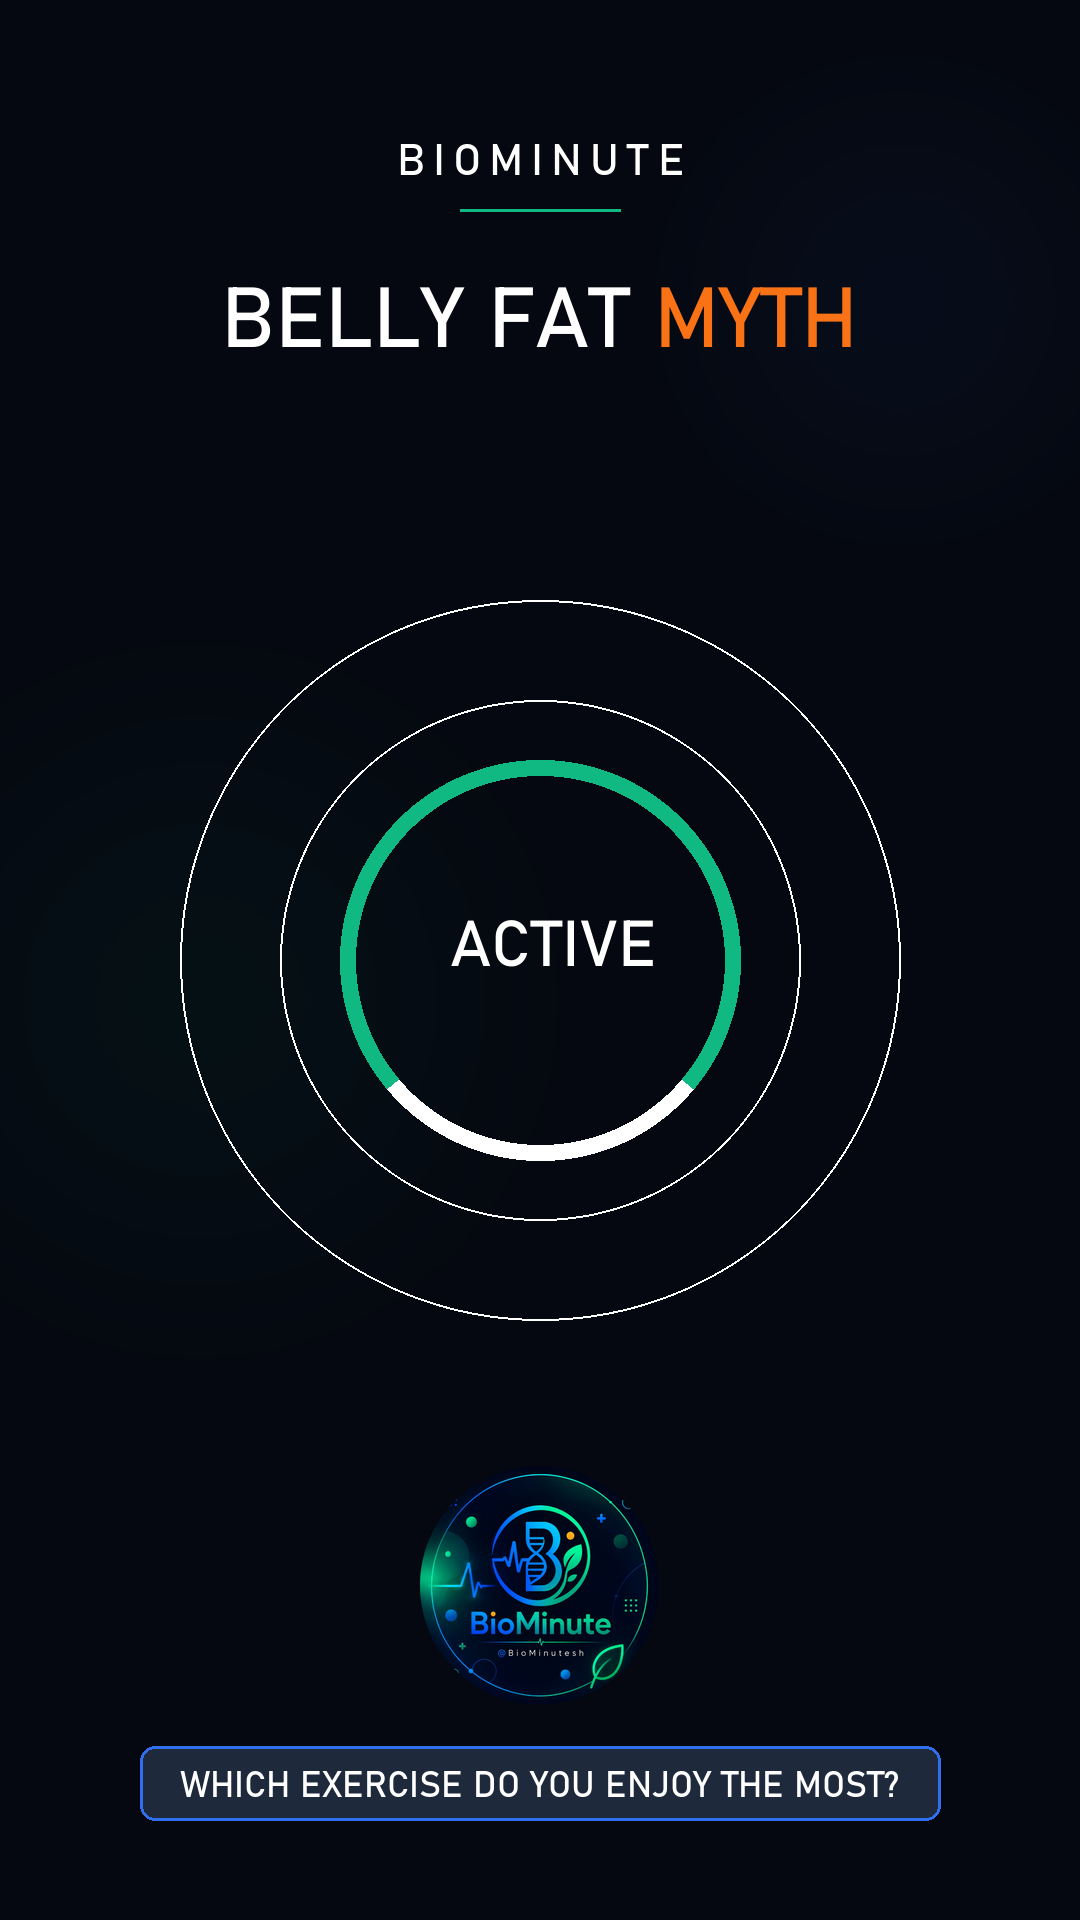
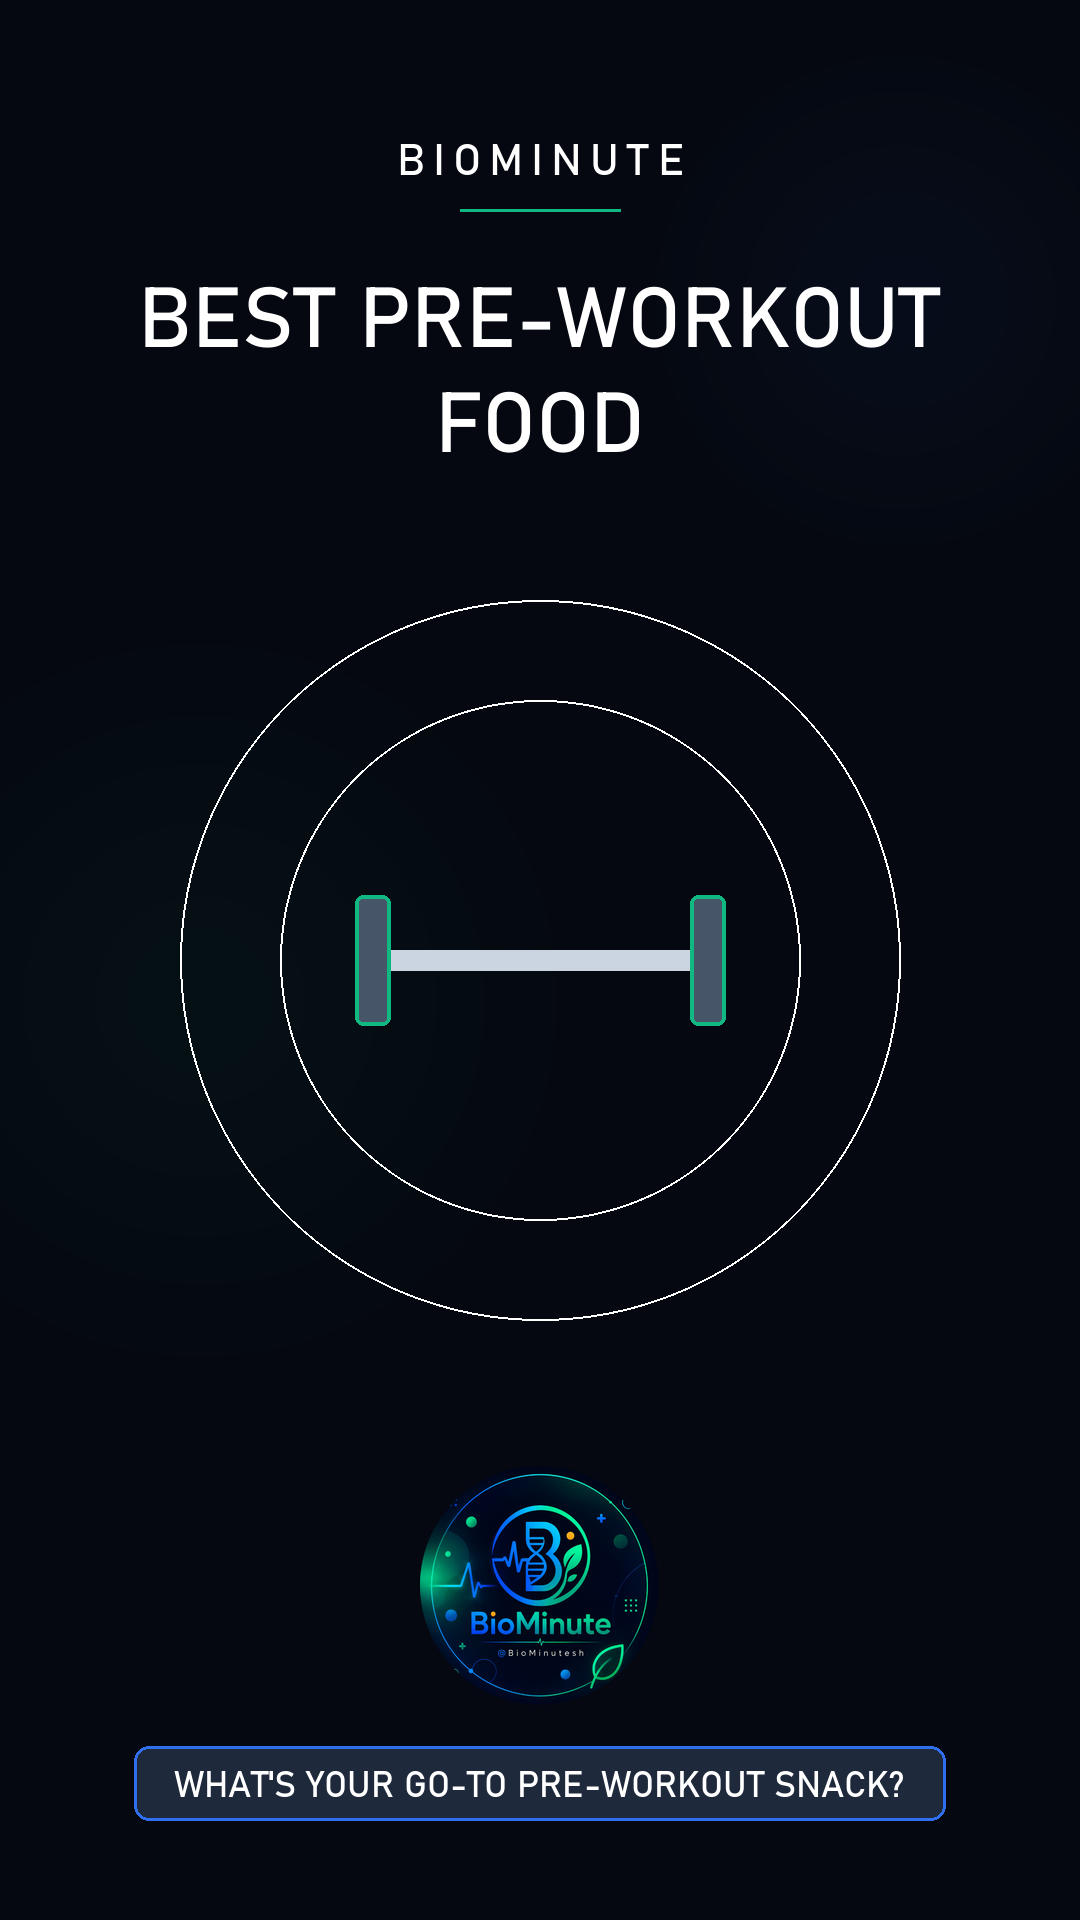
ep17: build, export, and push Episode 17 to GitHub; update dashboard and production log

diff --git a/artifacts/biominute-reels/src/components/video/video_scenes/Scene2.tsx b/artifacts/biominute-reels/src/components/video/video_scenes/Scene2.tsx
@@ -1,6 +1,6 @@
 import { motion } from 'framer-motion';
 import { useEffect, useRef } from 'react';
-import { Dumbbell, Shield, Layers } from 'lucide-react';
+import { Beef, Clock, Plus } from 'lucide-react';
 import { BOTTOM_SAFE_ZONE_PX } from '@/lib/video';
 
 const BASE_URL = import.meta.env.BASE_URL ?? '/';
@@ -37,40 +37,40 @@ export function Scene2() {
           />
 
           <motion.div
-            className="w-[240px] h-[240px] rounded-full bg-[#0F172A] border-8 border-[#10b981] flex items-center justify-center drop-shadow-[0_0_60px_rgba(16,185,129,0.35)]"
+            className="w-[240px] h-[240px] rounded-full bg-[#0F172A] border-8 border-[#2F6FED] flex items-center justify-center drop-shadow-[0_0_60px_rgba(47,111,237,0.35)]"
             initial={{ scale: 0.6, opacity: 0 }}
             animate={{ scale: 1, opacity: 1 }}
             transition={{ delay: 0.2, ...SPRING_SMOOTH }}
           >
-            <Dumbbell size={88} color="#10b981" strokeWidth={1.5} />
+            <Beef size={88} color="#2F6FED" strokeWidth={1.5} />
           </motion.div>
 
           <motion.div
-            className="absolute top-0 right-0 w-20 h-20 rounded-full bg-[#2F6FED] flex items-center justify-center"
+            className="absolute top-0 right-0 w-20 h-20 rounded-full bg-[#f97316] flex items-center justify-center"
             initial={{ scale: 0, opacity: 0 }}
             animate={{ scale: 1, opacity: 1 }}
             transition={{ delay: 0.8, ...SPRING_SNAPPY }}
           >
-            <Shield size={40} color="#0F172A" strokeWidth={2.5} />
+            <Clock size={40} color="#0F172A" strokeWidth={2.5} />
           </motion.div>
 
           <motion.div
-            className="absolute bottom-0 left-0 w-20 h-20 rounded-full bg-[#f97316] flex items-center justify-center"
+            className="absolute bottom-0 left-0 w-20 h-20 rounded-full bg-[#10b981] flex items-center justify-center"
             initial={{ scale: 0, opacity: 0 }}
             animate={{ scale: 1, opacity: 1 }}
             transition={{ delay: 1.1, ...SPRING_SNAPPY }}
           >
-            <Layers size={40} color="#0F172A" strokeWidth={2.5} />
+            <Plus size={40} color="#0F172A" strokeWidth={2.5} />
           </motion.div>
         </div>
 
         <motion.div
-          className="mt-8 bg-[#10b981]/10 border border-[#10b981]/30 px-6 py-4 rounded-2xl text-center max-w-[80%]"
+          className="mt-8 bg-[#2F6FED]/10 border border-[#2F6FED]/30 px-6 py-4 rounded-2xl text-center max-w-[80%]"
           initial={{ opacity: 0, y: 20 }}
           animate={{ opacity: 1, y: 0 }}
           transition={{ delay: 1.6, ...SPRING_SMOOTH }}
         >
-          <span className="text-[#f8fafc] font-display font-bold text-[22px] uppercase tracking-wider">Strengthens, But Doesn't Selectively Burn</span>
+          <span className="text-[#f8fafc] font-display font-bold text-[22px] uppercase tracking-wider">Add Protein If It's Been a While</span>
         </motion.div>
       </div>
 
@@ -84,14 +84,14 @@ export function Scene2() {
           animate={{ opacity: 1, y: 0 }}
           transition={{ duration: 0.8, delay: 1.0 }}
         >
-          Ab Exercises Build Muscle
+          Protein Helps When
           <motion.span
-            className="text-[#10b981] block mt-2 drop-shadow-md"
+            className="text-[#2F6FED] block mt-2 drop-shadow-md"
             initial={{ opacity: 0, scale: 0.95 }}
             animate={{ opacity: 1, scale: 1 }}
             transition={{ delay: 1.8, ...SPRING_SNAPPY }}
           >
-            Underneath, Not Burn Local Fat
+            Your Last Meal Was Long Ago
           </motion.span>
         </motion.h2>
       </div>

diff --git a/artifacts/biominute-reels/src/components/video/video_scenes/Scene3.tsx b/artifacts/biominute-reels/src/components/video/video_scenes/Scene3.tsx
@@ -1,6 +1,6 @@
 import { motion } from 'framer-motion';
 import { useEffect, useRef } from 'react';
-import { Utensils, Activity, Dumbbell, ArrowDown } from 'lucide-react';
+import { Banana, Milk, Wheat, Utensils } from 'lucide-react';
 import { BOTTOM_SAFE_ZONE_PX } from '@/lib/video';
 
 const BASE_URL = import.meta.env.BASE_URL ?? '/';
@@ -18,10 +18,10 @@ export function Scene3() {
     }
   }, []);
 
-  const factors = [
-    { Icon: Utensils, label: 'Nutrition', color: '#10b981', delay: 0.2, angle: 0 },
-    { Icon: Activity, label: 'Activity', color: '#2F6FED', delay: 0.5, angle: 120 },
-    { Icon: Dumbbell, label: 'Strength', color: '#f97316', delay: 0.8, angle: 240 },
+  const foods = [
+    { Icon: Banana, label: 'Banana', color: '#facc15', delay: 0.2, angle: 0 },
+    { Icon: Milk, label: 'Yogurt', color: '#2F6FED', delay: 0.5, angle: 120 },
+    { Icon: Wheat, label: 'Oatmeal', color: '#10b981', delay: 0.8, angle: 240 },
   ];
 
   return (
@@ -42,7 +42,7 @@ export function Scene3() {
             transition={{ duration: 4, repeat: Infinity, ease: "easeInOut" }}
           />
 
-          {factors.map(({ Icon, label, color, delay, angle }) => {
+          {foods.map(({ Icon, label, color, delay, angle }) => {
             const rad = (angle * Math.PI) / 180;
             const x = Math.cos(rad) * 130;
             const y = Math.sin(rad) * 130;
@@ -72,17 +72,17 @@ export function Scene3() {
             animate={{ scale: 1 }}
             transition={{ delay: 1.2, ...SPRING_SNAPPY }}
           >
-            <ArrowDown size={48} color="#0F172A" strokeWidth={2.5} />
+            <Utensils size={48} color="#0F172A" strokeWidth={2} />
           </motion.div>
         </div>
 
         <motion.div
-          className="mt-8 bg-[#2F6FED]/10 border border-[#2F6FED]/30 px-6 py-4 rounded-2xl text-center max-w-[80%]"
+          className="mt-8 bg-[#10b981]/10 border border-[#10b981]/30 px-6 py-4 rounded-2xl text-center max-w-[80%]"
           initial={{ opacity: 0, y: 20 }}
           animate={{ opacity: 1, y: 0 }}
           transition={{ delay: 1.6, ...SPRING_SMOOTH }}
         >
-          <span className="text-[#f8fafc] font-display font-bold text-[22px] uppercase tracking-wider">Reveals Muscles Over Time</span>
+          <span className="text-[#f8fafc] font-display font-bold text-[22px] uppercase tracking-wider">Timing + Intensity + What Feels Good</span>
         </motion.div>
       </div>
 
@@ -96,14 +96,14 @@ export function Scene3() {
           animate={{ opacity: 1, y: 0 }}
           transition={{ duration: 0.8, delay: 1.0 }}
         >
-          Reduce Overall Body Fat
+          Simple Options, But the Best
           <motion.span
-            className="text-[#2F6FED] block mt-2 drop-shadow-md"
+            className="text-[#10b981] block mt-2 drop-shadow-md"
             initial={{ opacity: 0, scale: 0.95 }}
             animate={{ opacity: 1, scale: 1 }}
             transition={{ delay: 1.8, ...SPRING_SNAPPY }}
           >
-            To See What's Underneath
+            Choice Depends on You
           </motion.span>
         </motion.h2>
       </div>

diff --git a/artifacts/biominute-reels/src/components/video/video_scenes/Scene0.tsx b/artifacts/biominute-reels/src/components/video/video_scenes/Scene0.tsx
@@ -1,6 +1,6 @@
 import { motion } from 'framer-motion';
 import { useEffect, useRef } from 'react';
-import { Dumbbell } from 'lucide-react';
+import { Apple } from 'lucide-react';
 import { BOTTOM_SAFE_ZONE_PX } from '@/lib/video';
 
 const BASE_URL = import.meta.env.BASE_URL ?? '/';
@@ -29,26 +29,26 @@ export function Scene0() {
       <audio ref={audioRef} src={`${BASE_URL}audio/sfx-whoosh.mp3`} preload="auto" />
 
       <motion.div
-        className="absolute top-[20%] w-[550px] h-[550px] bg-gradient-to-tr from-[#f97316]/20 to-[#2F6FED]/10 rounded-full blur-[120px]"
+        className="absolute top-[20%] w-[550px] h-[550px] bg-gradient-to-tr from-[#10b981]/20 to-[#2F6FED]/10 rounded-full blur-[120px]"
         animate={{ scale: [1, 1.08, 1], opacity: [0.4, 0.6, 0.4] }}
         transition={{ duration: 6, repeat: Infinity, ease: "easeInOut" }}
       />
 
       <div className="absolute top-[260px] flex items-center justify-center z-10 w-full">
         <motion.div
-          className="relative w-[300px] h-[300px] rounded-full bg-[#0F172A] border-8 border-[#f97316] flex items-center justify-center drop-shadow-[0_0_60px_rgba(249,115,22,0.35)]"
+          className="relative w-[300px] h-[300px] rounded-full bg-[#0F172A] border-8 border-[#10b981] flex items-center justify-center drop-shadow-[0_0_60px_rgba(16,185,129,0.35)]"
           initial={{ scale: 0.6, opacity: 0, y: 30 }}
           animate={{ scale: 1, opacity: 1, y: 0 }}
           transition={{ delay: 0.2, ...SPRING_SMOOTH }}
         >
-          <Dumbbell size={140} color="#f97316" strokeWidth={1.5} />
+          <Apple size={140} color="#10b981" strokeWidth={1.5} />
           <motion.div
-            className="absolute -bottom-4 -right-4 w-24 h-24 rounded-full bg-[#10b981] flex items-center justify-center"
+            className="absolute -bottom-4 -right-4 w-24 h-24 rounded-full bg-[#f97316] flex items-center justify-center"
             initial={{ scale: 0, opacity: 0 }}
             animate={{ scale: 1, opacity: 1 }}
             transition={{ delay: 0.8, ...SPRING_SNAPPY }}
           >
-            <span className="text-[#0F172A] font-display font-black text-[18px]">ABS</span>
+            <span className="text-[#0F172A] font-display font-black text-[18px]">FUEL</span>
           </motion.div>
         </motion.div>
       </div>
@@ -63,14 +63,14 @@ export function Scene0() {
           animate={{ opacity: 1, y: 0 }}
           transition={{ duration: 0.8, delay: 0.6 }}
         >
-          Can You Lose Belly Fat
+          What's the Best Food
           <motion.span
-            className="text-[#f97316] block mt-3 drop-shadow-md"
+            className="text-[#10b981] block mt-3 drop-shadow-md"
             initial={{ scale: 0.95, opacity: 0 }}
             animate={{ scale: 1, opacity: 1 }}
             transition={{ delay: 1.2, ...SPRING_SNAPPY }}
           >
-            With Ab Exercises?
+            Before a Workout?
           </motion.span>
         </motion.h1>
       </div>

diff --git a/artifacts/biominute-reels/src/components/video/video_scenes/Scene1.tsx b/artifacts/biominute-reels/src/components/video/video_scenes/Scene1.tsx
@@ -1,6 +1,6 @@
 import { motion } from 'framer-motion';
 import { useEffect, useRef } from 'react';
-import { Ban, Target } from 'lucide-react';
+import { Zap, Wheat } from 'lucide-react';
 import { BOTTOM_SAFE_ZONE_PX } from '@/lib/video';
 
 const BASE_URL = import.meta.env.BASE_URL ?? '/';
@@ -31,27 +31,27 @@ export function Scene1() {
       <div className="absolute top-[260px] flex items-center justify-center z-10 w-full">
         <div className="relative w-[340px] h-[340px] flex items-center justify-center">
           <motion.div
-            className="absolute inset-0 rounded-full bg-gradient-to-tr from-[#f97316]/15 to-[#2F6FED]/10 blur-[40px]"
+            className="absolute inset-0 rounded-full bg-gradient-to-tr from-[#10b981]/15 to-[#2F6FED]/10 blur-[40px]"
             animate={{ scale: [1, 1.05, 1], opacity: [0.5, 0.8, 0.5] }}
             transition={{ duration: 4, repeat: Infinity, ease: "easeInOut" }}
           />
 
           <motion.div
-            className="w-[240px] h-[240px] rounded-full bg-[#0F172A] border-8 border-[#f97316] flex items-center justify-center drop-shadow-[0_0_60px_rgba(249,115,22,0.35)]"
+            className="w-[240px] h-[240px] rounded-full bg-[#0F172A] border-8 border-[#10b981] flex items-center justify-center drop-shadow-[0_0_60px_rgba(16,185,129,0.35)]"
             initial={{ scale: 0.6, opacity: 0 }}
             animate={{ scale: 1, opacity: 1 }}
             transition={{ delay: 0.2, ...SPRING_SMOOTH }}
           >
-            <Target size={88} color="#f97316" strokeWidth={1.5} />
+            <Wheat size={88} color="#10b981" strokeWidth={1.5} />
           </motion.div>
 
           <motion.div
-            className="absolute top-0 right-0 w-20 h-20 rounded-full bg-[#10b981] flex items-center justify-center"
+            className="absolute top-0 right-0 w-20 h-20 rounded-full bg-[#2F6FED] flex items-center justify-center"
             initial={{ scale: 0, rotate: -45 }}
             animate={{ scale: 1, rotate: 0 }}
             transition={{ delay: 0.8, ...SPRING_SNAPPY }}
           >
-            <Ban size={40} color="#0F172A" strokeWidth={3} />
+            <Zap size={40} color="#0F172A" strokeWidth={2.5} />
           </motion.div>
         </div>
       </div>
@@ -66,14 +66,14 @@ export function Scene1() {
           animate={{ opacity: 1, y: 0 }}
           transition={{ duration: 0.8, delay: 1.0 }}
         >
-          Spot Reduction Is
+          Carbs Give You Energy
           <motion.span
-            className="text-[#f97316] block mt-2 drop-shadow-md"
+            className="text-[#10b981] block mt-2 drop-shadow-md"
             initial={{ opacity: 0, scale: 0.95 }}
             animate={{ opacity: 1, scale: 1 }}
             transition={{ delay: 1.8, ...SPRING_SNAPPY }}
           >
-            One of the Biggest Fitness Myths
+            For Your Workout
           </motion.span>
         </motion.h2>
       </div>

diff --git a/exports/dashboard.html b/exports/dashboard.html
@@ -292,8 +292,8 @@
   <div class="sub">Self-contained repo preview — scripts, status, and finished videos travel together.</div>
   <div class="stats">
     <div class="stat"><b>36</b>Total episodes</div>
-    <div class="stat" style="background:var(--emerald);color:#fff"><b>16</b>Complete</div>
-    <div class="stat" style="background:var(--orange);color:#fff"><b>20</b>Uncomplete</div>
+    <div class="stat" style="background:var(--emerald);color:#fff"><b>17</b>Complete</div>
+    <div class="stat" style="background:var(--orange);color:#fff"><b>19</b>Uncomplete</div>
   </div>
 </header>
 
@@ -641,18 +641,22 @@
     </div>
   </div>
 
-  <div class="card" data-status="Uncomplete" data-title="What's the Best Food to Eat Before a Workout?" data-slug="Episode-17-whats-the-best-food-to">
+  <div class="card" data-status="Complete" data-title="What's the Best Food to Eat Before a Workout?" data-slug="Episode-17-whats-the-best-food-to" data-path="exports/Episode-17-whats-the-best-food-to/episode.mp4">
     <div class="card-num">EP 17</div>
-    <div class="thumb-wrap"><div class="thumb placeholder">Not produced yet</div></div>
+    <div class="thumb-wrap">
+      <video class="thumb" poster="Episode-17-whats-the-best-food-to/thumbnail.png" controls preload="none">
+        <source src="Episode-17-whats-the-best-food-to/episode.mp4" type="video/mp4">
+      </video>
+    </div>
     <div class="card-body">
       <div class="card-title">What's the Best Food to Eat Before a Workout?</div>
       <div class="card-meta">
-        <span class="badge queued">Uncomplete</span>
-        <span class="date">Mon, Aug 17, 2026</span>
+        <span class="badge complete">Complete</span>
+        <span class="date">2026-07-14</span>
       </div>
       <div class="copy-row">
         <button class="copy-btn" onclick="copyText(this.dataset.txt, this)" data-txt="What's the Best Food to Eat Before a Workout?">Title</button>
-        <button class="copy-btn" onclick="copyText(this.dataset.txt, this)" data-txt="Episode-17-whats-the-best-food-to">Slug</button>
+        <button class="copy-btn" onclick="copyText(this.dataset.txt, this)" data-txt="exports/Episode-17-whats-the-best-food-to/episode.mp4">Path</button>
         <button class="copy-btn" onclick="copyText(this.dataset.txt, this)" data-txt="EP17 — What's the Best Food to Eat Before a Workout?">Label</button>
       </div>
     </div>

diff --git a/artifacts/biominute-reels/src/components/video/video_scenes/Scene4.tsx b/artifacts/biominute-reels/src/components/video/video_scenes/Scene4.tsx
@@ -1,6 +1,6 @@
 import { motion } from 'framer-motion';
 import { useEffect, useRef } from 'react';
-import { BookOpen, MessageCircle, Dumbbell } from 'lucide-react';
+import { BookOpen, MessageCircle, Apple } from 'lucide-react';
 import { BOTTOM_SAFE_ZONE_PX } from '@/lib/video';
 
 const BASE_URL = import.meta.env.BASE_URL ?? '/';
@@ -42,8 +42,8 @@ export function Scene4() {
             animate={{ scale: 1, rotate: 0 }}
             transition={{ delay: 0.6, ...SPRING_SNAPPY }}
           >
-            <div className="w-24 h-24 rounded-full bg-[#f97316] flex items-center justify-center">
-              <Dumbbell size={48} color="#0F172A" strokeWidth={2} />
+            <div className="w-24 h-24 rounded-full bg-[#10b981] flex items-center justify-center">
+              <Apple size={48} color="#0F172A" strokeWidth={2} />
             </div>
           </motion.div>
 
@@ -53,9 +53,9 @@ export function Scene4() {
             animate={{ opacity: 1, y: 0 }}
             transition={{ delay: 1.0, duration: 0.8 }}
           >
-            Which Exercise Do
-            <span className="text-[#f97316] block mt-2">You Enjoy</span>
-            <span className="text-[#10b981] block mt-2">The Most?</span>
+            What's Your Go-To
+            <span className="text-[#10b981] block mt-2">Pre-Workout</span>
+            <span className="text-[#f97316] block mt-2">Snack?</span>
           </motion.h2>
 
           <motion.div
@@ -65,7 +65,7 @@ export function Scene4() {
             transition={{ delay: 2.0, duration: 1 }}
           >
             <MessageCircle size={28} color="#14b8a6" />
-            <span className="text-[#94a3b8] text-[24px] font-medium">Tell us below 👇</span>
+            <span className="text-[#94a3b8] text-[24px] font-medium">Share below 👇</span>
           </motion.div>
         </motion.div>
       </div>
@@ -80,7 +80,7 @@ export function Scene4() {
         <div className="flex items-center gap-4 text-[#94a3b8] text-[22px] font-medium bg-[#0F172A]/90 px-6 py-4 rounded-xl backdrop-blur-sm border border-white/10 shadow-lg">
           <BookOpen className="shrink-0" size={28} />
           <p className="leading-relaxed text-left">
-            Source: General exercise physiology research on spot-reduction and regional fat loss
+            Source: General sports nutrition research on pre-exercise fueling (e.g. ACSM/AND guidance)
           </p>
         </div>
       </motion.div>

diff --git a/artifacts/biominute-reels/src/lib/video/config.ts b/artifacts/biominute-reels/src/lib/video/config.ts
@@ -22,10 +22,10 @@ export const CANVAS_STYLE = {
 // advance scenes automatically. Keep the total loop duration in sync with
 // the exported MP4 length so the record/export control captures the full video.
 export const SCENE_DURATIONS = {
-  0: 4500, // Hook: "Can You Lose Belly Fat with Ab Exercises?"
-  1: 7000, // Spot reduction is one of the biggest fitness myths
-  2: 6500, // Ab exercises strengthen muscles but don't selectively burn fat
-  3: 6000, // Overall body fat reduction reveals muscles
+  0: 4500, // Hook: "What's the Best Food to Eat Before a Workout?"
+  1: 7000, // Carbs for energy before exercise
+  2: 6500, // Protein if it's been a while
+  3: 6000, // Simple options depend on timing/intensity
   4: 6500, // CTA + citation
   5: 5000, // Thumbnail end card
 } as const;

diff --git a/exports/Episode-17-whats-the-best-food-to/episode-notes.md b/exports/Episode-17-whats-the-best-food-to/episode-notes.md
@@ -1,0 +1,15 @@
+# Episode 17 — What's the Best Food to Eat Before a Workout?
+
+## Build notes
+- Rebuilt in `artifacts/biominute-reels` for Episode 17.
+- 9:16 vertical, 1080×1920.
+- 6 scenes: hook, carbs for energy, protein if it's been a while, simple options depend on timing/intensity, CTA + citation, thumbnail end card.
+- Scene durations: 4500/7000/6500/6000/6500/5000ms = 35.5s total.
+- Background music mixed in at export.
+- CTA: "What's your go-to pre-workout snack?"
+- Citation: General sports nutrition research on pre-exercise fueling (e.g. ACSM/AND guidance).
+
+## Export
+- `episode.mp4` exported at 1080×1920 via Playwright + ffmpeg pipeline.
+- `thumbnail.png` provided in `Thumbnails_1783978530696.zip` (ep17.png).
+- Exported on 2026-07-14.

diff --git a/exports/production-log.md b/exports/production-log.md
@@ -24,7 +24,7 @@ Persistent tracker for all BioMinute reel/short episodes. **Read this file befor
 | 14 | Do You Really Need 8 Glasses of Water a Day? | Complete | 2026-07-14 | `exports/Episode-14-do-you-really-need-8/` | Exported at 1080x1920 (36.5s). Durations: 4500/7000/6500/6500/7000/5000ms (6 scenes). CTA: "What's your hydration check today? 😅" Exported with Playwright + ffmpeg pipeline; includes background music. |
 | 15 | Does Eating Late at Night Cause Weight Gain? | Complete | 2026-07-14 | `exports/Episode-15-does-eating-late-at-night/` | Exported at 1080x1920 (35.5s). Durations: 4500/7000/6500/6000/6500/5000ms (6 scenes). CTA: "Are you a morning eater or a late-night snacker?" Exported with Playwright + ffmpeg pipeline; includes background music. |
 | 16 | Can You Lose Belly Fat with Ab Exercises? | Complete | 2026-07-14 | `exports/Episode-16-can-you-lose-belly-fat/` | Exported at 1080x1920 (35.5s). Durations: 4500/7000/6500/6000/6500/5000ms (6 scenes). CTA: "Which exercise do you enjoy the most?" Exported with Playwright + ffmpeg pipeline; includes background music. |
-| 17 | What's the Best Food to Eat Before a Workout? | Uncomplete | — | `exports/Episode-17-whats-the-best-food-to/` | Planned post date: Mon, Aug 17, 2026 |
+| 17 | What's the Best Food to Eat Before a Workout? | Complete | 2026-07-14 | `exports/Episode-17-whats-the-best-food-to/` | Exported at 1080x1920 (35.5s). Durations: 4500/7000/6500/6000/6500/5000ms (6 scenes). CTA: "What's your go-to pre-workout snack?" Exported with Playwright + ffmpeg pipeline; includes background music. |
 | 18 | Does More Sweat Mean More Fat Burned? | Uncomplete | — | `exports/Episode-18-does-more-sweat-mean-more/` | Planned post date: Wed, Aug 19, 2026 |
 | 19 | Can You Lose Fat Without Doing Cardio? | Uncomplete | — | `exports/Episode-19-can-you-lose-fat-without/` | Planned post date: Fri, Aug 21, 2026 |
 | 20 | How Much Protein Do You Really Need? | Uncomplete | — | `exports/Episode-20-how-much-protein-do-you/` | Planned post date: Mon, Aug 24, 2026 |